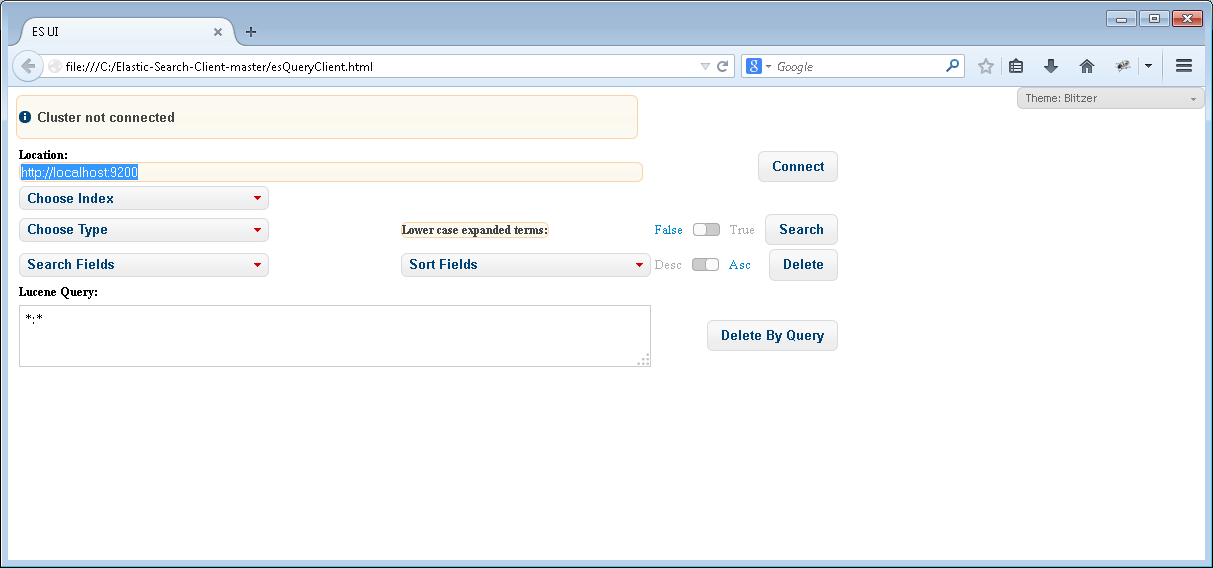
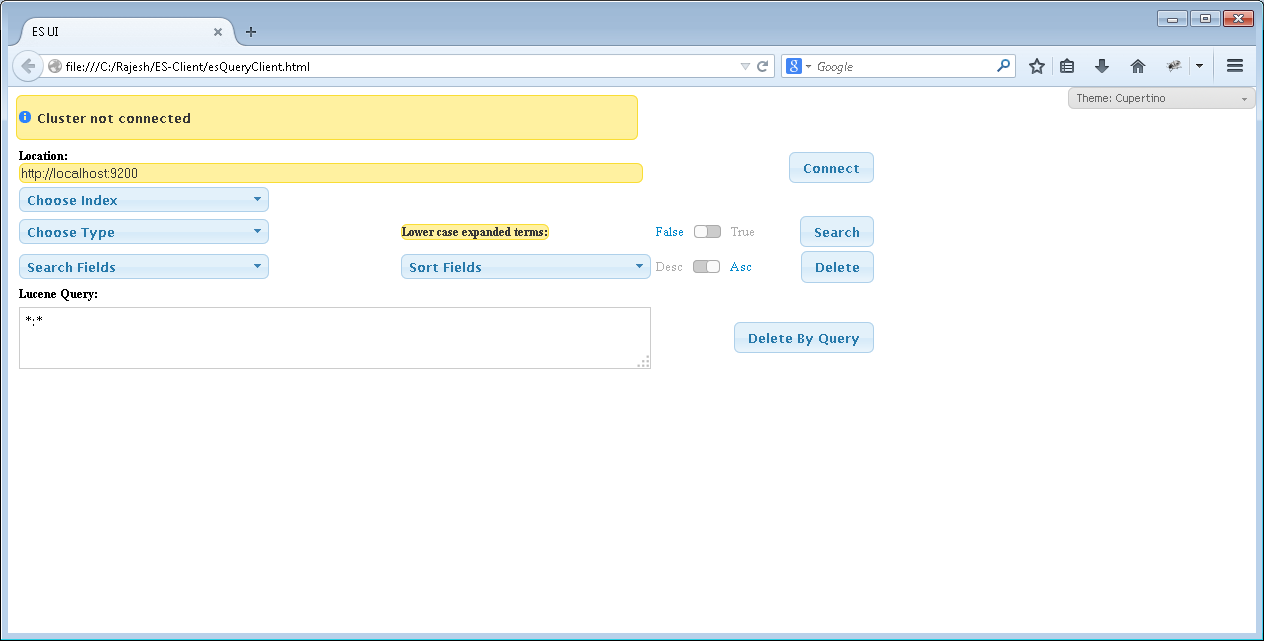
Images

diff --git a/README.md b/README.md
@@ -12,7 +12,7 @@ Default config. looks like below
 ```js
 {
    'SERVER_URL':'http://localhost:9200',
-   'Theme':'Blitzer'
+   'Theme':'Cupertino'
 }
 ```
 Just change the location of your Elastic Search cluster and port and you are good to go.
